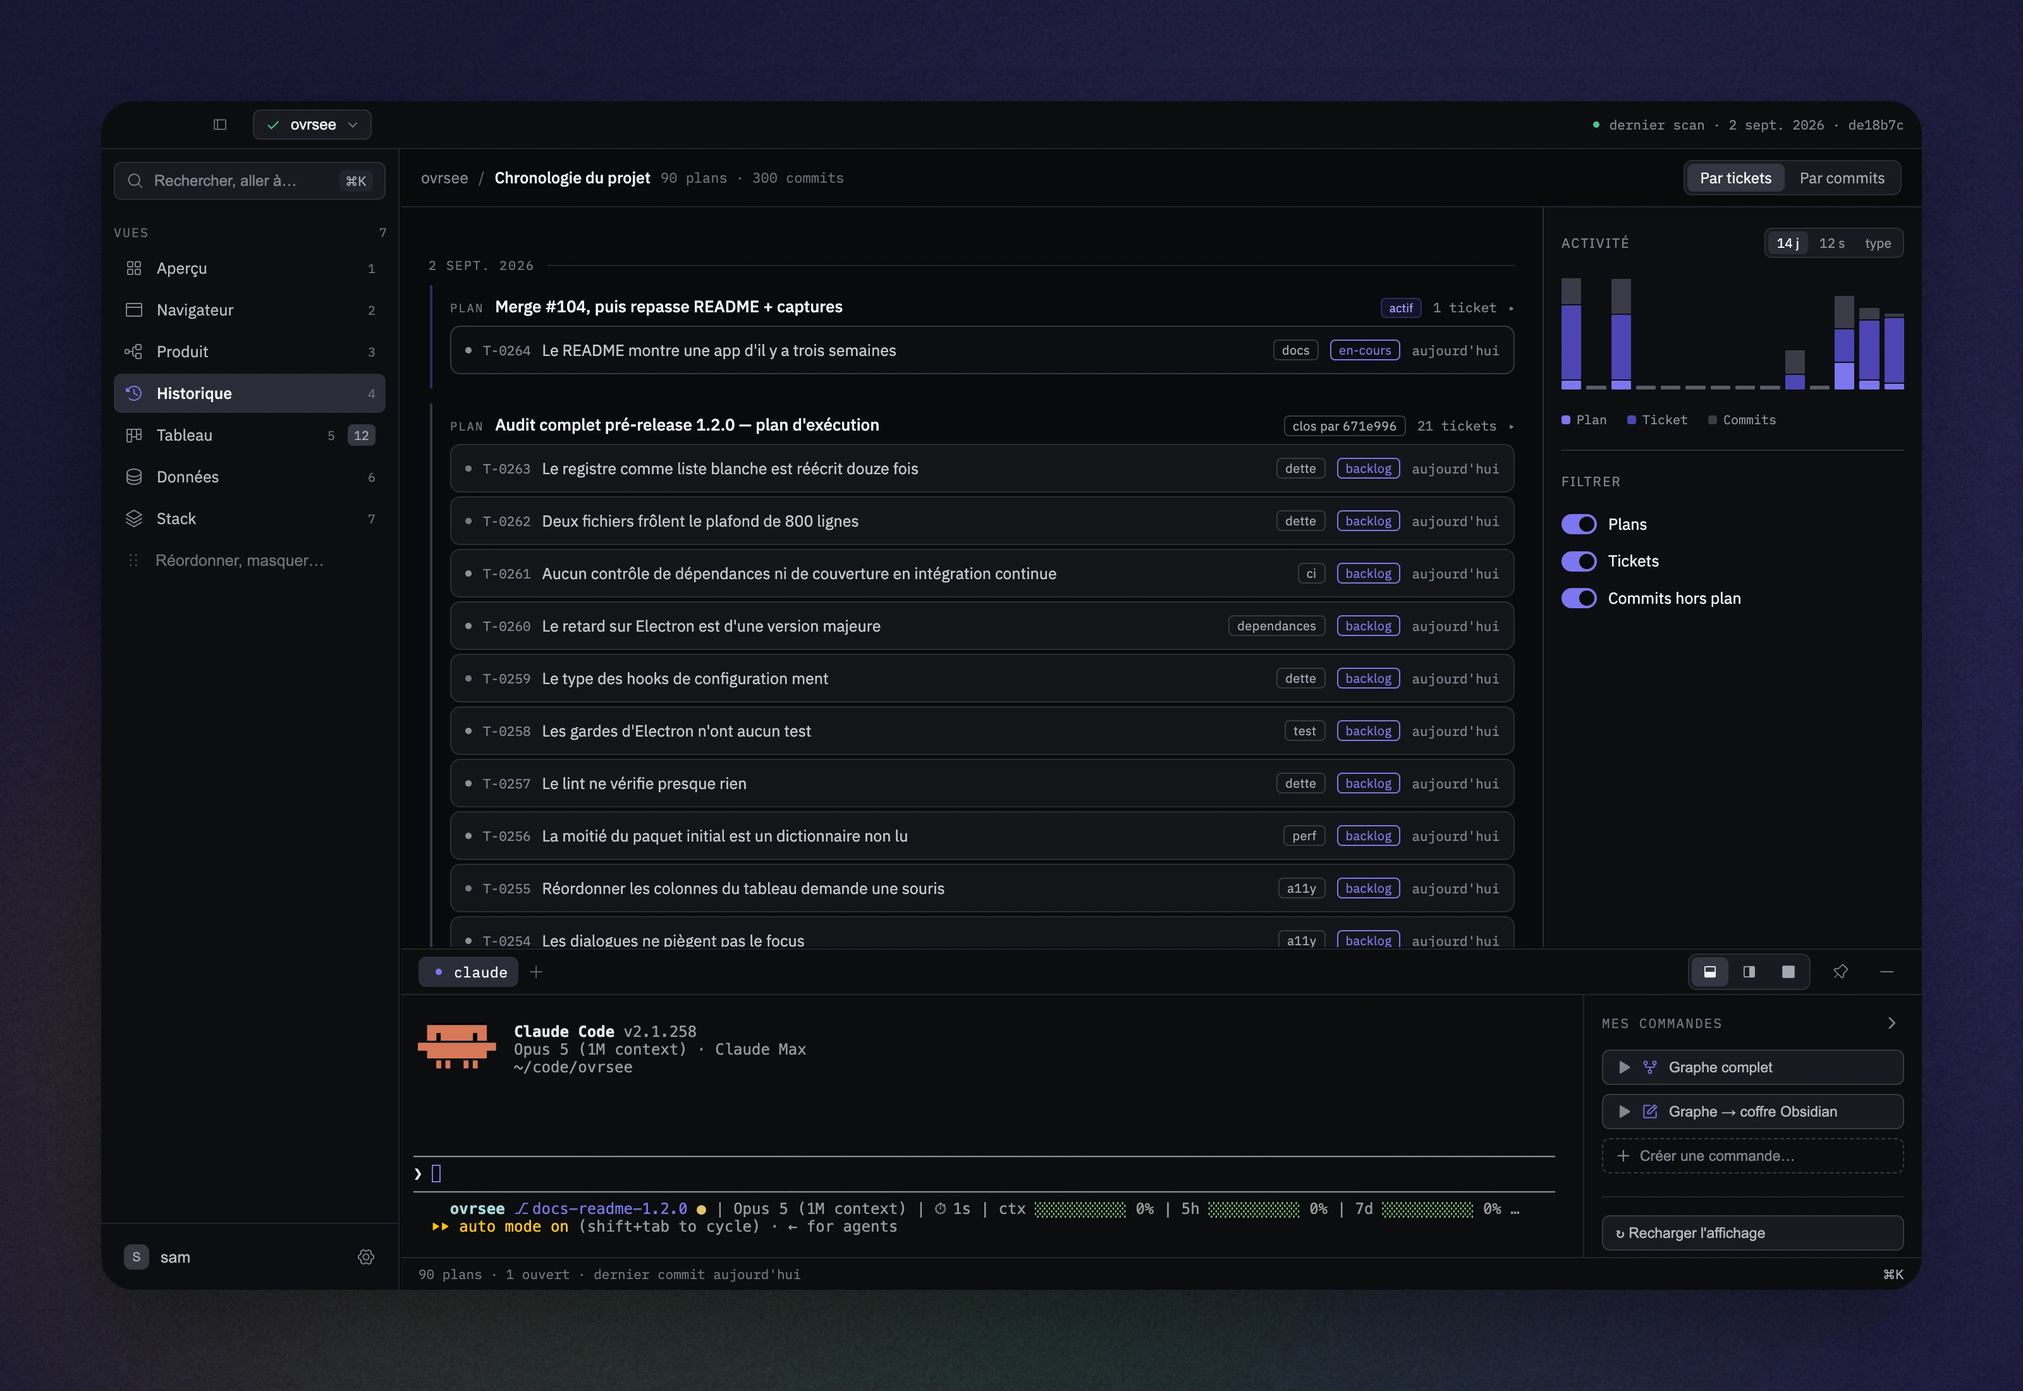
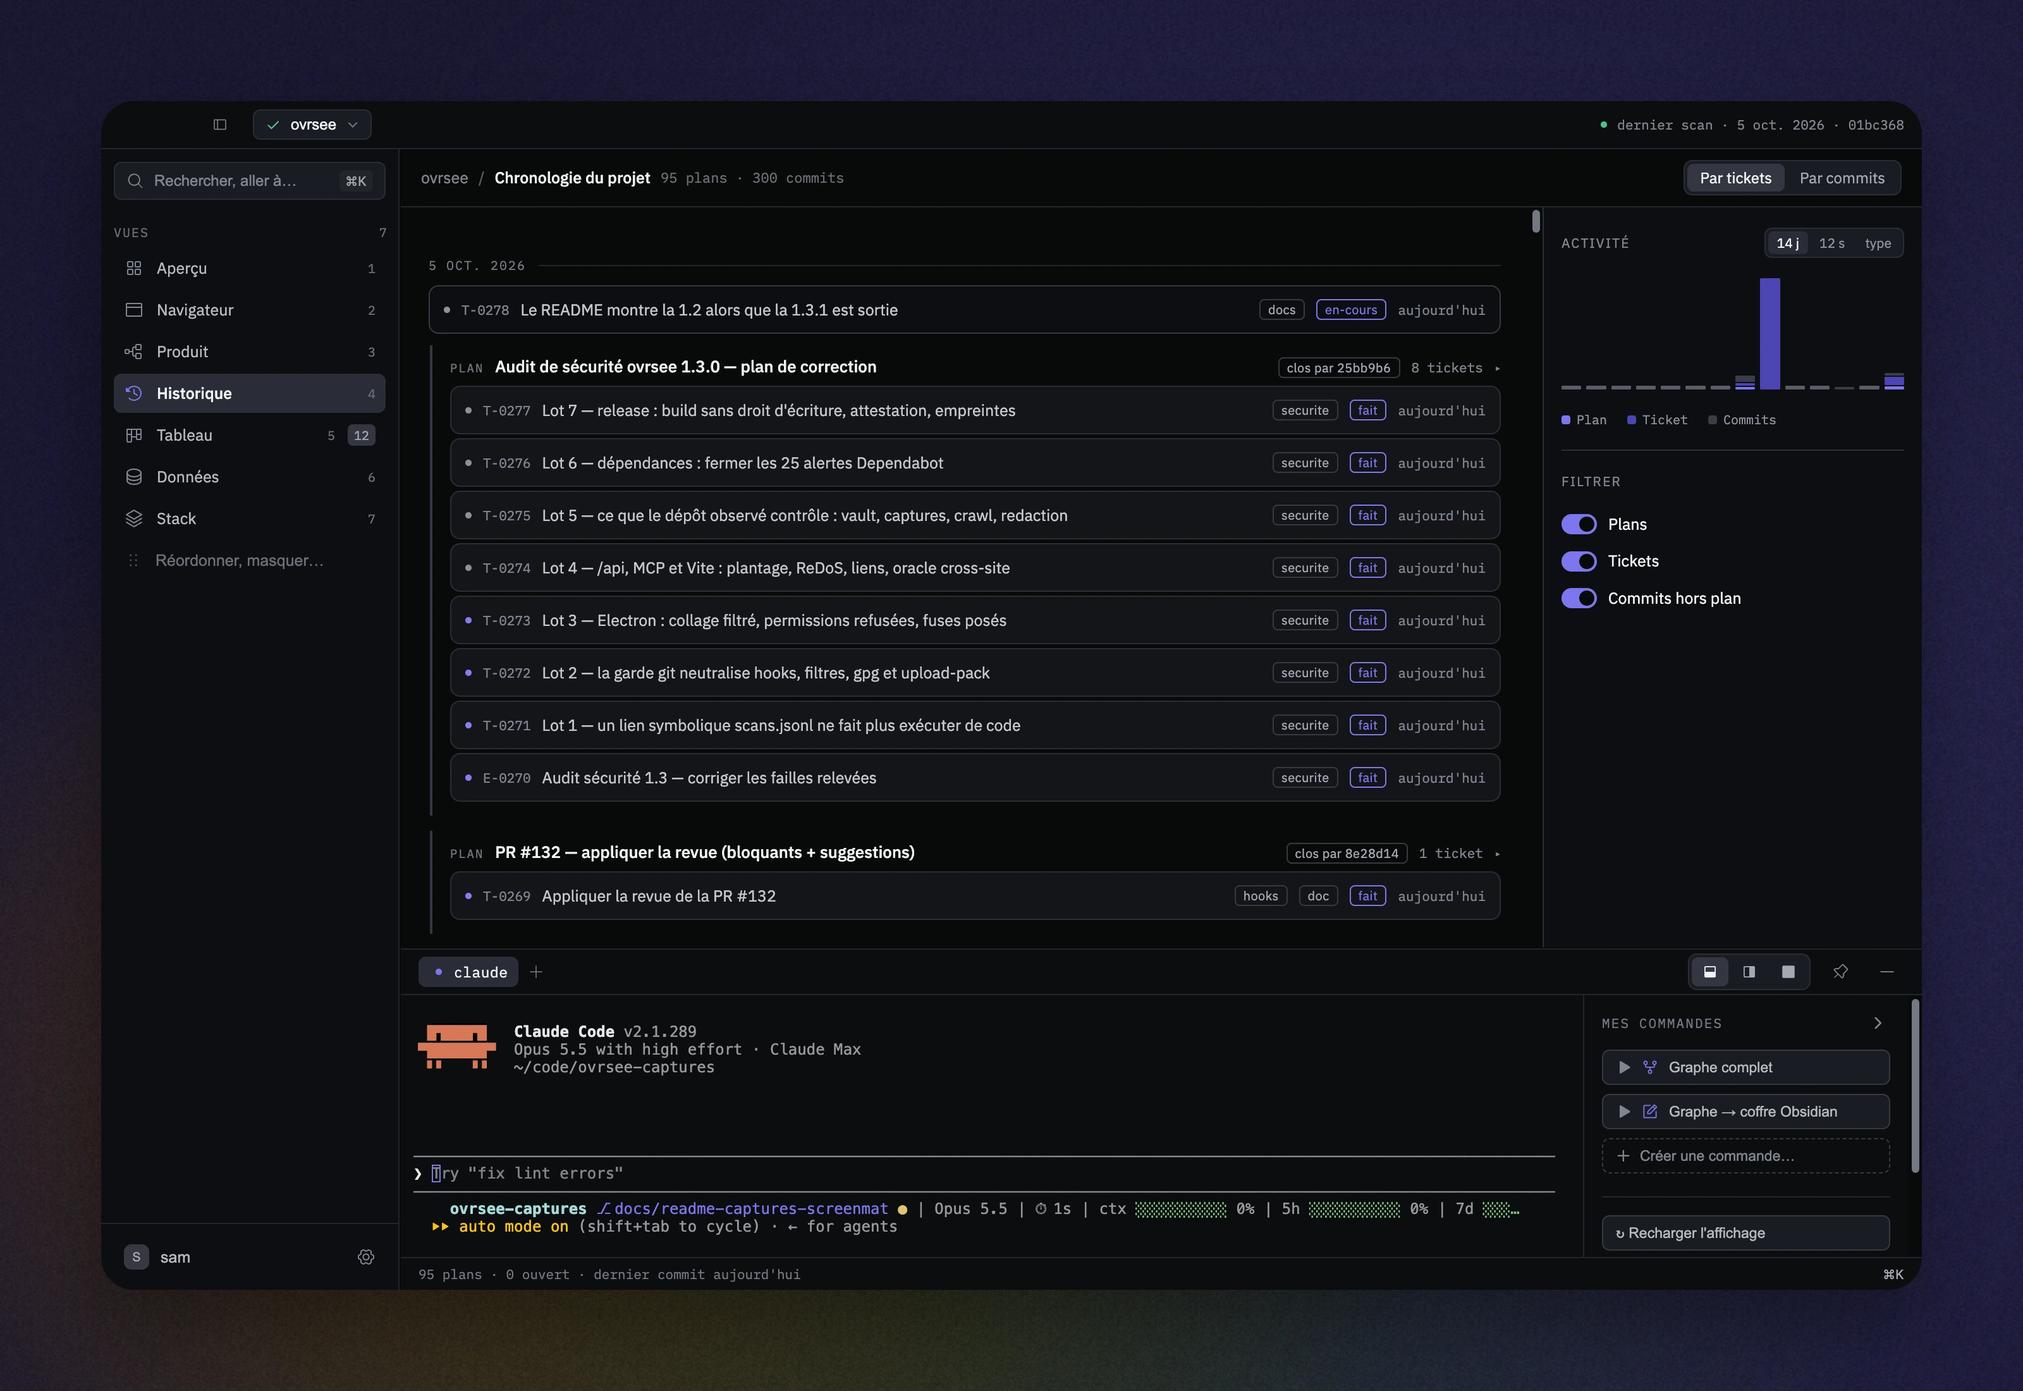
docs: le README rattrape la 1.3.1, captures refaites et encadrées par screenmat (T-0278) (#145)
* docs: le README rattrape la 1.3.1, captures refaites et encadrées par screenmat (T-0278)

Les sept captures dataient du 2 septembre (T-0264) : avant la 1.2.1, le préfixe
`E-` des epics, « Lancer le serveur » et la 1.3.1. Elles sont reprises par
`pnpm screenshots` et encadrées par screenmat, en webp.

Le script ne photographie plus « le dernier projet ouvert » : sur ce poste,
c'était un dépôt privé, et il partait dans le README. L'app et le dev server
qu'il lance lui-même lisent un registre jetable (`OVRSEE_REGISTRY`) qui ne
contient que ce dépôt. screenmat se désigne par `SCREENMAT` (le clone), comme
dans img-creator, au lieu d'un chemin de poste en dur.

Le texte : le coffre de l'onglet Données se règle dans Préférences → Projet
depuis T-0275, plus par `obsidianVault` ; le Navigateur propose de lancer le
serveur, sous le même accord que le crawl ; la colonne finale montre le dernier
ticket fini en tête ; équiper depuis l'image disque montée est refusé. Versions
de dépendances alignées sur package.json (electron 43.7.5, playwright-core
^1.63.0, oxlint ^1.86.0, react ^19.3.0, vite ^8.3.1).

* chore: solde T-0278, captures et README livrés

diff --git a/scripts/screenshots.js b/scripts/screenshots.js
@@ -11,20 +11,35 @@
  * navigateur : hors d'Electron, `Navigateur.tsx` rend `<HorsApplication />` et
  * le terminal intégré n'existe pas. Ce sont justement deux des sept captures.
  *
- * Chaque PNG brut passe ensuite par screenmat, qui pose le cadre arrondi et le
+ * Chaque PNG brut passe ensuite par screenmat
+ * (https://github.com/samuelboulery/screenmat), qui pose le cadre arrondi et le
  * fond. Son `--seed` est fixe : sans lui, le fond changerait à chaque passage et
- * les sept images seraient à recommiter pour rien.
+ * les sept images seraient à recommiter pour rien. `SCREENMAT` désigne le clone
+ * de screenmat, comme dans img-creator — pas de chemin de poste en dur :
+ *
+ *   SCREENMAT=../screenmat pnpm screenshots
+ *
+ * Sans elle, seules les captures brutes sont écrites (dossier temporaire).
  *
  * Prérequis :
  *   pnpm build:ui              — l'app chargée est celle d'`app/dist/`
- *   pnpm dev                   — l'onglet Navigateur pointe sur localhost:5180
- *   le projet ovrsee ouvert en dernier (registre `~/.claude/ovrsee/projects.json`)
+ *   le port 5180 libre         — le script lance lui-même `pnpm dev`, que
+ *                                l'onglet Navigateur affiche
+ *   un dernier crawl réussi    — sinon Produit n'a que des vignettes « scan
+ *                                échoué ». Le lancer sous le même registre
+ *                                jetable, sans quoi les résumés de pages citent
+ *                                le projet que le dev server ouvre en premier.
+ *
+ * Le projet photographié est ce dépôt, dans son état versionné, et lui seul :
+ * app et dev server lisent un registre jetable (`OVRSEE_REGISTRY`) qui ne
+ * contient que lui. Le registre du poste ouvrait le dernier projet ouvert —
+ * privé le cas échéant — et un crawl non commité pouvait citer d'autres dépôts.
  */
 
-import { execFileSync } from 'node:child_process'
-import { existsSync, mkdtempSync } from 'node:fs'
+import { execFileSync, spawn } from 'node:child_process'
+import { existsSync, mkdtempSync, writeFileSync } from 'node:fs'
 import { tmpdir } from 'node:os'
-import { dirname, join } from 'node:path'
+import { dirname, join, resolve } from 'node:path'
 import { fileURLToPath } from 'node:url'
 
 import { _electron as electron } from 'playwright-core'
@@ -49,7 +64,6 @@ export const ONGLETS = [
 const LARGEUR = 1440
 const HAUTEUR = 940
 
-const SCREENMAT = process.env.SCREENMAT ?? '/Users/sam/code/screenmat/cli/main.ts'
 const CADRE = [
   '--frame', 'browser', '--no-title-bar',
   '--ratio', 'auto', '--padding', '0.05',
@@ -63,12 +77,29 @@ async function capturer() {
   if (!existsSync(join(RACINE, 'app', 'dist', 'index.html'))) {
     throw new Error('app/dist absent — lancer `pnpm build:ui` avant')
   }
+  if (await fetch('http://localhost:5180').then(() => true, () => false)) {
+    throw new Error('le port 5180 répond déjà — arrêter le `pnpm dev` en cours')
+  }
 
   const brut = mkdtempSync(join(tmpdir(), 'ovrsee-shots-'))
+  const registre = join(brut, 'projects.json')
+  writeFileSync(registre, JSON.stringify([{ path: RACINE, name: 'ovrsee' }]))
+  const env = { ...process.env, OVRSEE_REGISTRY: registre }
+
+  // `detached` puis `-pid` : tuer `pnpm` seul laisserait vite tenir le port.
+  const dev = spawn('pnpm', ['dev'], { cwd: RACINE, env, stdio: 'ignore', detached: true })
+  try {
+    return await photographier(brut, env)
+  } finally {
+    process.kill(-dev.pid)
+  }
+}
+
+async function photographier(brut, env) {
   // `--force-device-scale-factor=2` : la fenêtre reste à 1440×940 points et se
   // photographie en 2880×1880 pixels. Sans lui, les captures sont à 1× et le
   // texte du README est illisible dès qu'on les regarde en grand.
-  const app = await electron.launch({ args: ['.', '--force-device-scale-factor=2'], cwd: RACINE })
+  const app = await electron.launch({ args: ['.', '--force-device-scale-factor=2'], cwd: RACINE, env })
   const page = await app.firstWindow()
 
   // Le thème du README est le sombre. Le réglage du poste n'est pas touché :
@@ -121,12 +152,14 @@ async function capturer() {
 }
 
 function habiller(faites) {
-  if (!existsSync(SCREENMAT)) {
-    console.error(`screenmat introuvable (${SCREENMAT}) — captures brutes laissées dans ${dirname(faites[0][1])}`)
+  const screenmat = process.env.SCREENMAT && resolve(process.env.SCREENMAT)
+  if (!screenmat || !existsSync(join(screenmat, 'cli', 'main.ts'))) {
+    console.error(`SCREENMAT ne désigne pas un clone de screenmat — captures brutes laissées dans ${dirname(faites[0][1])}`)
     return
   }
   for (const [id, fichier] of faites) {
-    execFileSync('node', [SCREENMAT, fichier, ...CADRE, '--out', join(SORTIE, `${id}.webp`)], {
+    execFileSync('pnpm', ['-s', 'cli', fichier, ...CADRE, '--out', join(SORTIE, `${id}.webp`)], {
+      cwd: screenmat,
       stdio: ['ignore', 'ignore', 'inherit'],
     })
     console.error(`habillé : docs/screenshots/${id}.webp`)

diff --git a/README.fr.md b/README.fr.md
@@ -66,6 +66,8 @@ session Claude en cours.
 Un navigateur intégré (barre d'adresse, DevTools, sélecteur d'élément) pour inspecter
 l'application observée directement depuis l'interface. Un élément se commente sur
 place : le commentaire et le descriptif partent à Claude, ou directement dans un ticket.
+Quand le serveur de dev de l'application observée ne tourne pas, l'écran d'erreur
+propose de le lancer, après le même accord que le crawl.
 
 ### Produit — le graphe de navigation
 ![Onglet Produit](./docs/screenshots/produit.webp)
@@ -85,7 +87,8 @@ apparaît avec son statut. Filtrable par plans, tickets et commits hors plan.
 Un fichier par ticket dans `ovrsee/tickets/`, colonnes réglées dans `ovrsee/board.json`.
 Écrit ici comme depuis le terminal intégré — une image collée dans un ticket est rangée
 à côté de lui. Les epics affichent leur avancement et leurs tickets enfants dans leur
-propre vue ; le kanban ne contient que des tickets. Les tickets se numérotent `T-0012`,
+propre vue ; le kanban ne contient que des tickets, le dernier fini en tête de la
+colonne finale. Les tickets se numérotent `T-0012`,
 les epics `E-0012`, sur un seul compteur : cocher « epic » change le préfixe et garde
 le numéro. Les epics nés avant ce préfixe passent en `E-` par
 `pnpm ovrsee:migrate-epics`.
@@ -125,7 +128,9 @@ Prendre la version de sa plateforme sur l'onglet
 [Releases](https://github.com/samuelboulery/ovrsee/releases). Les binaires ne sont **ni
 signés ni notariés** : macOS refuse le premier lancement — clic droit sur l'application,
 puis *Ouvrir* — et Windows affiche un avertissement SmartScreen, qu'on passe par
-*Informations complémentaires* puis *Exécuter quand même*.
+*Informations complémentaires* puis *Exécuter quand même*. Sur macOS, glisser
+d'abord l'application dans Applications : équiper un dépôt depuis l'image disque montée
+est refusé.
 
 | Plateforme | Format |
 |---|---|
@@ -244,9 +249,10 @@ C'est ce que fait le bouton « ◈ Graphe → coffre Obsidian » du terminal int
 
 ### Coffre comme source de l'onglet Données
 
-Si vous documentez dans Obsidian plutôt qu'avec Graphify, le champ `obsidianVault`
-dans `ovrsee.config.json` désigne un coffre, et l'onglet Données le lit **quand Graphify
-n'a rien produit**.
+Si vous documentez dans Obsidian plutôt qu'avec Graphify, désignez un coffre dans
+Préférences → Projet, et l'onglet Données le lit **quand Graphify n'a rien produit**.
+C'est un réglage du poste : un champ `obsidianVault` encore présent dans
+`ovrsee.config.json` est ignoré, et l'onglet Données le signale.
 
 Une note est une table quand son frontmatter porte `type: table`. `columns` en donne
 les colonnes, `maj` la date de dernière mise à jour :
@@ -315,22 +321,22 @@ Sobriété délibérée : **5 dépendances de production**, le reste est du Node
 | `@xterm/xterm` | 6.0.0 | le terminal intégré |
 | `@xterm/addon-fit` | ^0.11.0 | il suit la taille du panneau |
 | `node-pty` | 1.1.0 | un vrai pty derrière ce terminal |
-| `playwright-core` | ^1.62.1 | pilote le crawl, y compris dans l'app livrée |
+| `playwright-core` | ^1.63.0 | pilote le crawl, y compris dans l'app livrée |
 
 **Développement**
 
 | Paquet | Version |
 |---|---|
-| `react` | ^19.2.8 |
-| `react-dom` | ^19.2.8 |
+| `react` | ^19.3.0 |
+| `react-dom` | ^19.3.0 |
 | `typescript` | ^7.0.2 |
-| `vite` | ^8.2.2 |
-| `electron` | 43.4.1 |
+| `vite` | ^8.3.1 |
+| `electron` | 43.7.5 |
 | `electron-builder` | ^26.15.3 |
-| `oxlint` | ^1.80.0 |
+| `oxlint` | ^1.86.0 |
 | `@vitejs/plugin-react` | ^6.1.0 |
-| `@types/react` | ^19.2.18 |
-| `@types/react-dom` | ^19.2.5 |
+| `@types/react` | ^19.3.0 |
+| `@types/react-dom` | ^19.3.0 |
 
 Gestionnaire de paquets : `pnpm@11.22.0`, épinglé dans `package.json` et fait respecter
 par Corepack. Depuis la version 11, `.npmrc` ne porte plus que l'authentification et le
@@ -355,7 +361,8 @@ deux plans sont actifs, n'est rattaché nulle part — et le dit sur stderr.
 
 **La commande `dev` exige un accord, et il vit hors du dépôt.**
 `ovrsee.config.json` est versionné : sa ligne `dev` vient de l'auteur du dépôt observé,
-pas de vous, et le crawl la passe à un shell. Ce qui est retenu — dans
+pas de vous, et le crawl — comme « Lancer le serveur » dans l'onglet Navigateur — la
+passe à un shell. Ce qui est retenu — dans
 `~/.claude/ovrsee/trust.json` — est la chaîne exacte : un `dev` modifié redemande
 l'accord. Ce n'est pas une revue de commande : `pnpm dev` est inoffensif à l'œil, ce
 qu'il exécute vit dans le `package.json` de ce dépôt. On accorde une confiance à une

diff --git a/README.md b/README.md
@@ -65,6 +65,8 @@ running.
 An embedded browser (address bar, DevTools, element picker) to inspect the
 observed application directly from the interface. Pick an element and comment on it:
 the comment and the element's description go to Claude, or straight into a ticket.
+When the observed app's dev server is not running, the error screen offers to start
+it, after the same approval as the crawl.
 
 ### Product — the navigation graph
 ![Product tab](./docs/screenshots/produit.webp)
@@ -84,7 +86,8 @@ ticket shows up with its status. Filterable by plans, tickets, and off-plan comm
 One file per ticket in `ovrsee/tickets/`, columns set in `ovrsee/board.json`.
 Written here just like from the integrated terminal — an image pasted into a ticket
 is stored next to it. Epics show their progress and their child tickets in their own
-view; the kanban holds tickets only. Tickets are numbered `T-0012`, epics `E-0012`,
+view; the kanban holds tickets only, with the most recently finished first in the
+final column. Tickets are numbered `T-0012`, epics `E-0012`,
 on a single counter: ticking “epic” swaps the prefix and keeps the number. Epics
 created before that prefix move over with `pnpm ovrsee:migrate-epics`.
 
@@ -122,7 +125,8 @@ Download the build for your platform from the
 [Releases](https://github.com/samuelboulery/ovrsee/releases) tab. They are **neither
 signed nor notarised**: macOS refuses the first launch — right-click the app, then
 *Open* — and Windows shows a SmartScreen warning, which you get past with *More info*
-then *Run anyway*.
+then *Run anyway*. On macOS, drag the app into Applications first: equipping a
+repository from the mounted disk image is refused.
 
 | Platform | Format |
 |---|---|
@@ -237,9 +241,10 @@ That's what the "◈ Graph → Obsidian vault" button in the integrated terminal
 
 ### Vault as the Data tab's source
 
-If you document in Obsidian instead of Graphify, the `obsidianVault` field in
-`ovrsee.config.json` points at a vault, and the Data tab reads it **only when
-Graphify produced nothing**.
+If you document in Obsidian instead of Graphify, point at a vault in Preferences →
+Project, and the Data tab reads it **only when Graphify produced nothing**. It is a
+setting of this machine: an `obsidianVault` field still found in `ovrsee.config.json`
+is ignored, and the Data tab says so.
 
 A note is a table when its frontmatter carries `type: table`. `columns` gives the
 columns, `maj` the last-updated date:
@@ -308,22 +313,22 @@ Deliberately minimal: **5 production dependencies**, everything else is plain No
 | `@xterm/xterm` | 6.0.0 | the integrated terminal |
 | `@xterm/addon-fit` | ^0.11.0 | it follows the panel's size |
 | `node-pty` | 1.1.0 | a real pty behind that terminal |
-| `playwright-core` | ^1.62.1 | drives the crawl, in the packaged app too |
+| `playwright-core` | ^1.63.0 | drives the crawl, in the packaged app too |
 
 **Development**
 
 | Package | Version |
 |---|---|
-| `react` | ^19.2.8 |
-| `react-dom` | ^19.2.8 |
+| `react` | ^19.3.0 |
+| `react-dom` | ^19.3.0 |
 | `typescript` | ^7.0.2 |
-| `vite` | ^8.2.2 |
-| `electron` | 43.4.1 |
+| `vite` | ^8.3.1 |
+| `electron` | 43.7.5 |
 | `electron-builder` | ^26.15.3 |
-| `oxlint` | ^1.80.0 |
+| `oxlint` | ^1.86.0 |
 | `@vitejs/plugin-react` | ^6.1.0 |
-| `@types/react` | ^19.2.18 |
-| `@types/react-dom` | ^19.2.5 |
+| `@types/react` | ^19.3.0 |
+| `@types/react-dom` | ^19.3.0 |
 
 Package manager: `pnpm@11.22.0`, pinned in `package.json` and enforced by Corepack.
 Since version 11, `.npmrc` only carries authentication and the registry: every other
@@ -340,7 +345,8 @@ Attribution goes through four stages: a `T-XXXX` ticket (or `E-XXXX` epic) quote
 
 **The `dev` command needs an agreement, and it lives outside the repository.**
 `ovrsee.config.json` is versioned: its `dev` line is supplied by the observed
-repository, not by you, and the crawl hands it to a shell. What is remembered — in
+repository, not by you, and the crawl — like the Browser tab's *Start the server* —
+hands it to a shell. What is remembered — in
 `~/.claude/ovrsee/trust.json` — is the exact string, so a changed `dev` asks again.
 This is not a command review: `pnpm dev` looks harmless, what it runs lives in that
 repository's `package.json`. You are trusting a provenance.

diff --git a/ovrsee/tickets/T-0278-le-readme-montre-la-1-2-alors-que-la-1-3-1-est-sortie.md b/ovrsee/tickets/T-0278-le-readme-montre-la-1-2-alors-que-la-1-3-1-est-sortie.md
@@ -1,0 +1,37 @@
+---
+{
+  "id": "T-0278",
+  "titre": "Le README montre la 1.2 alors que la 1.3.1 est sortie",
+  "colonne": "fait",
+  "priorite": "moyenne",
+  "tags": [
+    "docs"
+  ],
+  "cree": "2026-10-05",
+  "maj": "2026-10-05",
+  "plan": null,
+  "fait": "2026-10-05T14:29:18.051Z"
+}
+---
+
+## Contexte
+
+Les sept captures de `docs/screenshots/` datent du 2 septembre (T-0264) : elles
+précèdent la 1.2.1, la 1.3.0 (préfixe `E-` des epics, bouton « Lancer le serveur »
+de l'onglet Navigateur, colonne finale triée par date de fin) et la 1.3.1.
+
+Le texte a le même retard par endroits : la section « Coffre comme source de
+l'onglet Données » renvoie encore au champ `obsidianVault` d'`ovrsee.config.json`,
+que T-0275 a cessé de lire au profit de Préférences → Projet, et les tables de
+dépendances citent `electron 43.4.1`, `playwright-core ^1.62.1`, `oxlint ^1.80.0`.
+
+## Critères d'acceptation
+
+- [x] `pnpm screenshots` a régénéré les sept captures, encadrées par screenmat, en
+      webp ; aucune n'est vide, aucune ne montre de donnée personnelle.
+- [x] Le script n'embarque plus de chemin propre à un poste : screenmat se désigne
+      par la variable `SCREENMAT` (dossier du dépôt screenmat), comme dans img-creator.
+- [x] `README.md` et `README.fr.md` ne citent plus `obsidianVault` dans
+      `ovrsee.config.json`, leurs versions de dépendances suivent `package.json`, et
+      les nouveautés visibles de la 1.3.0 y sont nommées.
+- [x] `pnpm test` passe (`scripts/screenshots.test.js` compris).
